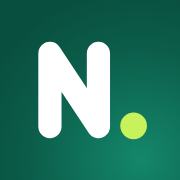
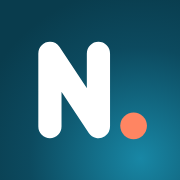
0.13.1

diff --git a/style.css b/style.css
@@ -8,7 +8,7 @@
 @font-face{font-family:"Nunito"; src:url(fonts/nunito.woff2) format("woff2"); font-weight:200 1000; font-style:normal; font-display:swap}
 
 /* ---------- 2. estilos ---------- */
-/* Mata (padrão): verde profundo com botão principal verde-limão */
+/* Mata: verde profundo com botão principal verde-limão (o padrão do app é Maré, mais abaixo; js/theme.js sempre marca o estilo) */
 :root{
   --font:"Figtree",-apple-system,BlinkMacSystemFont,"Segoe UI",Roboto,sans-serif;
   --bg:#f1f5f1; --card:#fff; --field:#f3f6f3; --ink:#14211c; --muted:#5a6a62; --line:#dfe6e1;
@@ -49,7 +49,7 @@
   --pos:#62d38d; --neg:#ff8a80; --warn:#ffcf70; --warn-bg:#2e2611;
   --shadow:none;
 }
-/* Maré: azul-petróleo com botão principal coral, letra arredondada */
+/* Maré (padrão): azul-petróleo com botão principal coral, letra arredondada */
 :root[data-style=mare]{
   --font:"Nunito",-apple-system,BlinkMacSystemFont,"Segoe UI",Roboto,sans-serif;
   --bg:#eff4f6; --card:#fff; --field:#f1f5f7; --ink:#10232b; --muted:#536872; --line:#dbe5e9;
@@ -72,8 +72,10 @@
 /* ---------- 3. estrutura ---------- */
 *{box-sizing:border-box}
 html{-webkit-text-size-adjust:100%}
+/* o fundo da página é a cor do topo: é ela que aparece quando se puxa a tela para baixo no iPhone; o corpo cobre o resto */
+html{background:var(--hero)}
 html,body{overflow-x:hidden; overflow-x:clip}
-body{margin:0; background:var(--bg); color:var(--ink); font:16px/1.45 var(--font); -webkit-tap-highlight-color:transparent; -webkit-font-smoothing:antialiased}
+body{margin:0; min-height:100vh; min-height:100dvh; background:var(--bg); color:var(--ink); font:16px/1.45 var(--font); -webkit-tap-highlight-color:transparent; -webkit-font-smoothing:antialiased}
 /* faixa da cor do topo atrás do relógio e da bateria do iPhone (app instalado na tela de início) */
 body::before{content:''; position:fixed; top:0; left:0; right:0; height:env(safe-area-inset-top); background:var(--hero); z-index:4}
 button,input,select,textarea{font:inherit; color:inherit}
@@ -462,7 +464,6 @@ body.locked #app, body.locked #sheet, body.locked .sheet.ask{visibility:hidden}
 @media (hover:hover){
   .btn:hover, .fchip:hover, .opt:hover, .look:hover{border-color:var(--brand)}
   .list li:hover, .sublist.go li:hover{background:color-mix(in srgb, var(--brand) 6%, transparent)}
-  .list li{border-radius:10px; padding-left:6px; padding-right:6px; margin:0 -6px}
   .tabs button:hover{color:var(--ink)}
   .qa:hover i{border-color:var(--brand)}
   .link:hover{text-decoration:underline}
@@ -470,9 +471,11 @@ body.locked #app, body.locked #sheet, body.locked .sheet.ask{visibility:hidden}
 }
 @media (min-width:760px){
   .shell{padding:0 0 40px 88px}
-  .tabs{top:0; bottom:0; right:auto; width:88px; flex-direction:column; justify-content:flex-start; gap:6px; border-top:0; border-right:1px solid var(--line); padding:calc(env(safe-area-inset-top) + 76px) 6px 12px}
-  .tabs{padding-top:calc(env(safe-area-inset-top) + 14px)}
-  .tabs::before{content:''; flex:none; height:44px; margin:0 0 14px; background:url(icons/icon-192.png) center / 44px 44px no-repeat; border-radius:12px}
+  .tabs{top:0; bottom:0; right:auto; width:88px; flex-direction:column; justify-content:flex-start; gap:6px; border-top:0; box-shadow:inset -1px 0 var(--line); padding:calc(env(safe-area-inset-top) + 76px) 6px 12px}
+  /* o alto do menu continua a faixa colorida do topo, com a marca em branco (antes: o ícone quadrado solto no fundo branco) */
+  .tabs{padding-top:0; --barh:calc(env(safe-area-inset-top) + 64px)}
+  .tabs::before{content:'N'; flex:none; height:var(--barh); margin:0 -6px 12px; padding-top:env(safe-area-inset-top); background:var(--hero); color:var(--on-hero); display:grid; place-items:center; font-size:32px; font-weight:900; line-height:1; padding-right:8px}
+  .tabs::after{content:''; position:absolute; top:calc(env(safe-area-inset-top) + 37px); left:calc(50% + 9px); width:9px; height:9px; border-radius:50%; background:var(--cta)}
   .tabs button{flex:none; height:64px; border-radius:var(--r-btn)}
   .top{padding-left:28px; padding-right:24px}
   .page{max-width:720px; padding:20px 24px 0}
@@ -514,8 +517,9 @@ body.locked #app, body.locked #sheet, body.locked .sheet.ask{visibility:hidden}
 }
 @media (min-width:1280px){
   .shell{padding-left:248px}
-  .tabs{width:248px; padding:20px 14px; gap:4px}
-  .tabs::before{content:'Níquel'; background:none; height:auto; margin:0; font-size:26px; font-weight:var(--hw); letter-spacing:var(--ls); padding:6px 12px 20px; color:var(--brand)}
+  .tabs{width:248px; padding:0 14px 20px; gap:4px}
+  .tabs::before{content:'Níquel'; margin:0 -14px 14px; justify-items:start; padding-left:26px; padding-right:0; font-size:27px; letter-spacing:var(--ls)}
+  .tabs::after{display:none}
   .tabs button{height:48px; flex-direction:row; justify-content:flex-start; gap:12px; font-size:15px; padding:0 12px}
   .tabs button svg{padding:0}
   .tabs button[aria-current="page"]{background:var(--brand-soft); color:var(--brand)}

diff --git a/js/app.js b/js/app.js
@@ -14,7 +14,7 @@ import * as H from './imp/holerite.js';
 import * as L from './link.js';
 import * as PH from './holder.js';
 
-export const VERSION = '0.13.0';
+export const VERSION = '0.13.1';
 const CID_KEY = 'fin.cfg.clientId';
 const clientId = () => (window.FIN_CONFIG && FIN_CONFIG.clientId) || (() => { try { return localStorage.getItem(CID_KEY) || ''; } catch { return ''; } })();
 
@@ -2392,9 +2392,9 @@ function syncBoxHTML() {
 
 /* aparência: claro, escuro ou automático, e o estilo visual (cores, letra e cantos). Vale só para o aparelho. */
 const LOOKS = [
+  { k: 'mare', name: 'Maré', hint: 'petróleo e coral', h: '#0c4a5f', b: '#eff4f6', c: '#ff8562', f: 'Nunito', r: '4px' },
   { k: 'mata', name: 'Mata', hint: 'verde e limão', h: '#0b5d4a', b: '#f1f5f1', c: '#c8f25c', f: 'Figtree', r: '5px' },
-  { k: 'ameixa', name: 'Ameixa', hint: 'roxo e damasco', h: '#4b2170', b: '#f6f2f8', c: '#ffb24d', f: 'Plus Jakarta Sans', r: '8px' },
-  { k: 'mare', name: 'Maré', hint: 'petróleo e coral', h: '#0c4a5f', b: '#eff4f6', c: '#ff8562', f: 'Nunito', r: '4px' }
+  { k: 'ameixa', name: 'Ameixa', hint: 'roxo e damasco', h: '#4b2170', b: '#f6f2f8', c: '#ffb24d', f: 'Plus Jakarta Sans', r: '8px' }
 ];
 function lookCardHTML() {
   const t = window.FIN_THEME.get();

diff --git a/index.html b/index.html
@@ -7,7 +7,7 @@
 <meta name="mobile-web-app-capable" content="yes">
 <meta name="apple-mobile-web-app-status-bar-style" content="black-translucent">
 <meta name="apple-mobile-web-app-title" content="Níquel">
-<meta name="theme-color" content="#0b5d4a">
+<meta name="theme-color" content="#0c4a5f">
 <meta http-equiv="Content-Security-Policy" content="default-src 'self'; script-src 'self' https://accounts.google.com; connect-src 'self' https://www.googleapis.com https://oauth2.googleapis.com https://accounts.google.com; frame-src https://accounts.google.com; img-src 'self' data: blob:; style-src 'self' 'unsafe-inline' https://accounts.google.com; font-src 'self' data:; worker-src 'self' blob:; object-src 'none'; base-uri 'self'; form-action 'self'">
 <meta name="referrer" content="no-referrer">
 <meta name="description" content="Controle financeiro pessoal com os dados no seu Google Drive.">

diff --git a/js/theme.js b/js/theme.js
@@ -1,7 +1,7 @@
-/* Aparência: claro, escuro ou automático (segue o aparelho) e o estilo visual.
+/* Aparência: claro, escuro ou automático (segue o aparelho) e o estilo visual (Maré é o padrão).
    Fica por aparelho (não vai ao Drive). Carregado no <head>, antes do CSS pintar, para a tela não piscar na cor errada. */
 (function () {
-  var STYLES = ['mata', 'ameixa', 'mare'], MODES = ['auto', 'light', 'dark'];
+  var STYLES = ['mare', 'mata', 'ameixa'], MODES = ['auto', 'light', 'dark'];
   var BAR = { mata: ['#0b5d4a', '#0f2f27'], ameixa: ['#4b2170', '#2a163f'], mare: ['#0c4a5f', '#0d2f3b'] };
   var mq = window.matchMedia ? window.matchMedia('(prefers-color-scheme: dark)') : null;
   function read(k, list) { try { var v = localStorage.getItem(k); return list.indexOf(v) >= 0 ? v : list[0]; } catch (e) { return list[0]; } }

diff --git a/sw.js b/sw.js
@@ -1,7 +1,7 @@
 // Guarda os arquivos do próprio app para abrir sem internet. Nada do Google (login, Drive) passa por aqui.
 // O leitor de PDF (vendor/pdfjs, ~1,5 MB) não entra na instalação: é guardado na primeira importação.
 // Ao mudar qualquer arquivo do app, aumente VERSION para os aparelhos baixarem a versão nova.
-const VERSION = 'v0.13.0';
+const VERSION = 'v0.13.1';
 const SHELL = ['./', 'index.html', 'style.css', 'config.js', 'manifest.webmanifest',
   'js/theme.js', 'js/app.js', 'js/auth.js', 'js/calc.js', 'js/drive.js', 'js/model.js', 'js/store.js', 'js/sync.js', 'js/lock.js', 'js/pix.js', 'js/imp/parcelas.js', 'js/imp/holerite.js', 'js/link.js', 'js/holder.js',
   'js/imp/pdftext.js', 'js/imp/parse.js', 'js/imp/classify.js', 'js/imp/plan.js',

diff --git a/README.md b/README.md
@@ -7,7 +7,8 @@ Controle financeiro pessoal, gratuito, que roda no navegador e guarda os dados n
 - O app só enxerga os arquivos que ele mesmo criou no Drive (permissão `drive.file`).
 - Funciona sem internet: tudo fica salvo no aparelho e vai para o Drive quando a conexão volta. Se dois aparelhos alterarem ao mesmo tempo, as alterações são juntadas lançamento a lançamento.
 
-**Versão atual: 0.13.0.** Novidades:
+**Versão atual: 0.13.1.** Novidades:
+- **0.13.1:** **Maré** passa a ser o estilo padrão (Mata e Ameixa continuam em Ajustes › Aparência) e o ícone ganha as cores dele; ao puxar a tela para baixo no iPhone, o fundo que aparece é da cor do topo.
 - **0.13.0:** **filtros nos Lançamentos** e **tela de computador**. Filtros: fila "Tudo · Receitas · Despesas · Cartão · Pendentes · Transferências · Sem categoria" e "Conta, categoria…" (conta ou cartão, grupo ou categoria, quem usou o cartão); valem para o mês e para a busca e mostram o total filtrado. Tocar em **Receitas** ou **Despesas** no alto filtra a lista; no Resumo, os mesmos números e cada categoria abrem os Lançamentos já filtrados. Computador: a partir de 760 px o menu vira um trilho à esquerda e as folhas abrem no centro; a partir de 1000 px, Lançamentos fica em duas colunas (lista à esquerda; mês, números e atalhos presos à direita) e os blocos das outras telas ficam lado a lado; a partir de 1280 px o menu lateral é completo; em monitores grandes o conteúdo alarga e Ajustes usa três colunas. Esc fecha a folha; realce ao passar o mouse.
 - **0.12.1:** o app passa a se chamar **Níquel** (antes "Finanças") e ganha ícone com a inicial. Nada muda nos dados: a pasta no Drive continua **Finanças (app)**, o arquivo continua `financas-dados.json` e o endereço do site é o mesmo.
 - **0.12.0:** **cara nova e ações à mão.** Aparência em Ajustes: modo **automático, claro ou escuro** e três **estilos** (Mata, Ameixa, Maré), cada um com cores, letra e formato de botão próprios; vale por aparelho. Topo colorido com o mês e o resultado em destaque; **atalhos** em Lançamentos (Importar, Despesa, Compra no cartão, Receita, Transferir, Pagar fatura); botão **+** em todas as abas. Na **fatura**, "Importar", "+ Compra", "Registrar pagamento" e "Editar cartão" ficam no alto, antes da lista de compras; em Lançamentos, cada fatura do mês tem "Abrir", "Importar" e "Pagar". Toda folha tem **botão de fechar** e os botões de salvar ficam presos embaixo; "+ Nova conta", "+ Novo cartão", "+ Nova reserva", "+ Eu devo" e os cadastros de Fixas e parcelas subiram para o título de cada bloco. No computador, o menu fica na lateral. Ícone novo.
